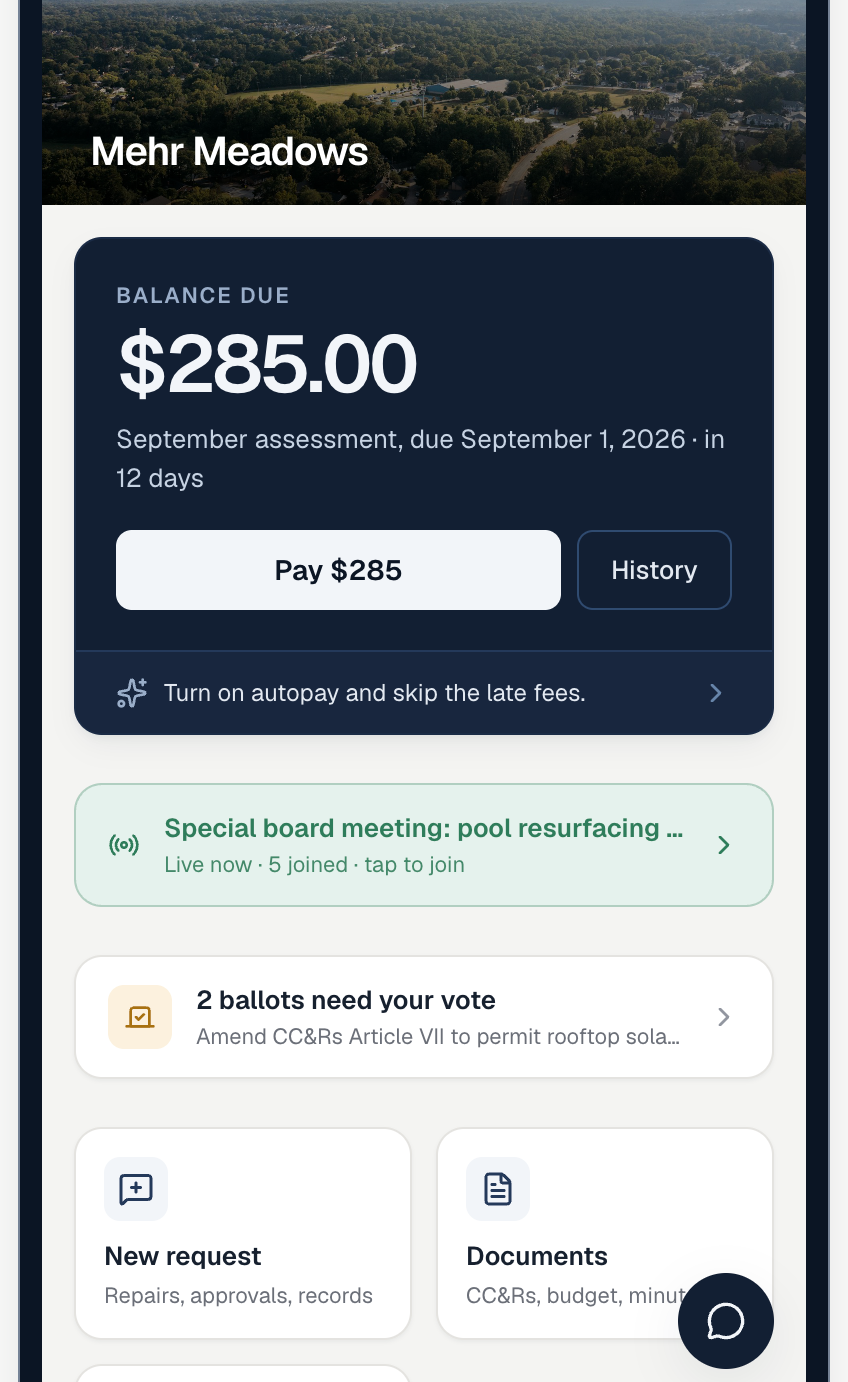
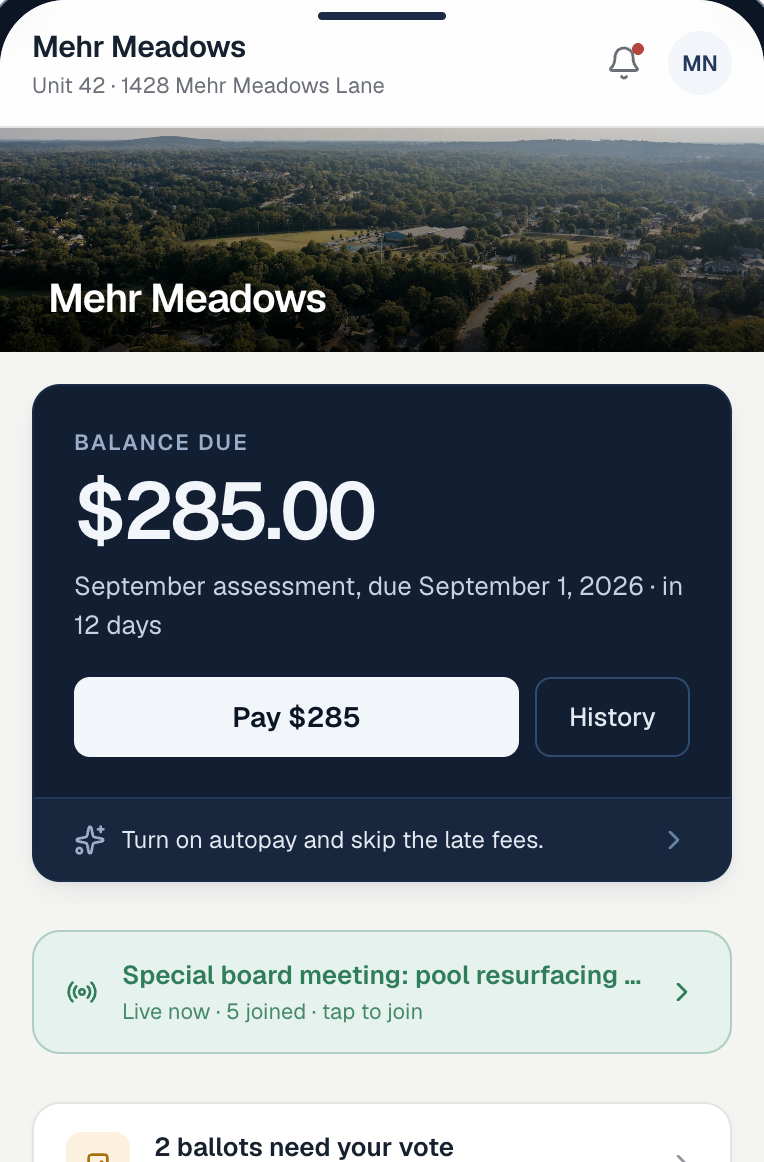
Founders on About, and a CSS phone frame on the home page
Correct headshots: the first photo was Monish, not Arya. Bios rewritten,
playful, and easy to replace: Arya as property manager and carpenter who can
fix a home from the studs up, with Nina getting the credit she is owed, and
Monish as the product manager who used to be an engineer, failed out of
pharmacy, and is being taught to chop wood.

The resident screenshot is recaptured as the screen alone, with no bezel of
its own, and the device is drawn in CSS instead. It stays crisp at any size,
follows the theme, and a new screenshot drops straight in without matching a
baked in border.

diff --git a/src/app/page.tsx b/src/app/page.tsx
@@ -74,8 +74,8 @@ const SHOWCASE = [
       "Association funds open to owners, if the board allows",
     ],
     image: "/marketing/product-resident.png",
-    width: 848,
-    height: 1382,
+    width: 764,
+    height: 1162,
     alt: "The resident app showing a balance due, a live board meeting, and open ballots",
     portrait: true,
   },
@@ -115,6 +115,44 @@ const JOBS = [
   "Answer owners without losing the thread",
   "Track every compliance deadline that applies",
 ];
+
+/**
+ * A phone around the resident screenshot.
+ *
+ * The capture is the screen only, with no bezel of its own, so the device is
+ * drawn here in CSS. That keeps it crisp at any size, lets the frame follow
+ * the theme, and means a new screenshot drops straight in without having to
+ * match a baked in border. Deliberately just a bezel: side buttons read as
+ * artefacts at this size rather than as detail.
+ */
+function PhoneFrame({ src, alt }: { src: string; alt: string }) {
+  return (
+    <div className="relative mx-auto w-[268px] sm:w-[292px]">
+      <div className="relative overflow-hidden rounded-[2.75rem] bg-navy-950 p-[10px] shadow-float ring-1 ring-navy-700/50 dark:ring-navy-600/60">
+        <div className="relative overflow-hidden rounded-[2.15rem] bg-bg">
+          <Image
+            src={src}
+            alt={alt}
+            width={764}
+            height={1162}
+            sizes="(max-width: 640px) 268px, 292px"
+            className="h-auto w-full"
+          />
+          {/* Dynamic island. */}
+          <span
+            className="absolute left-1/2 top-2 h-[22px] w-[86px] -translate-x-1/2 rounded-full bg-navy-950"
+            aria-hidden
+          />
+          {/* Home indicator. */}
+          <span
+            className="absolute bottom-1.5 left-1/2 h-[4px] w-[104px] -translate-x-1/2 rounded-full bg-navy-950/25"
+            aria-hidden
+          />
+        </div>
+      </div>
+    </div>
+  );
+}
 
 export default function MarketingHome() {
   const featured = libraryArticles.slice(0, 3);
@@ -222,22 +260,20 @@ export default function MarketingHome() {
             </Reveal>
 
             <Reveal delay={100} className={index % 2 === 1 ? "lg:order-1" : ""}>
-              <div
-                className={
-                  section.portrait
-                    ? "mx-auto max-w-[280px] overflow-hidden rounded-[1.75rem] border border-border shadow-float"
-                    : "overflow-hidden rounded-card border border-border shadow-float"
-                }
-              >
-                <Image
-                  src={section.image}
-                  alt={section.alt}
-                  width={section.width}
-                  height={section.height}
-                  sizes="(max-width: 1024px) 100vw, 50vw"
-                  className="h-auto w-full"
-                />
-              </div>
+              {section.portrait ? (
+                <PhoneFrame src={section.image} alt={section.alt} />
+              ) : (
+                <div className="overflow-hidden rounded-card border border-border shadow-float">
+                  <Image
+                    src={section.image}
+                    alt={section.alt}
+                    width={section.width}
+                    height={section.height}
+                    sizes="(max-width: 1024px) 100vw, 50vw"
+                    className="h-auto w-full"
+                  />
+                </div>
+              )}
             </Reveal>
           </div>
         </section>

diff --git a/src/app/about/page.tsx b/src/app/about/page.tsx
@@ -20,19 +20,18 @@ const FOUNDERS = [
   {
     name: "Arya Mehr",
     role: "Co-founder",
-    focus: "Community, operations, and anything with a tool in it",
+    focus: "Property management, carpentry, and anything from the studs up",
     photo: "/marketing/founder-arya.jpg",
-    bio: "Arya is a handsome gentleman who is genuinely good with his hands, which in an HOA is worth considerably more than an MBA. He is the one who spots a failing gate latch three weeks before it becomes a work order, owns more clamps than any single human requires, and holds firm opinions about deck stain. Anything involving a contractor, a ladder, or a difficult conversation at a board meeting is his.",
+    bio: "Arya is a property manager, a carpenter, and a handsome gentleman who is genuinely good with his hands. He can fix anything on a home from the studs up, which in this business is worth considerably more than an MBA. His wife Nina makes him a better man, a fact he will volunteer before you have finished asking. Anything involving a tool, a contractor, or a wall that is not where it should be is his.",
   },
   {
     name: "Monish Naidu",
     role: "Co-founder",
     focus: "Product and engineering",
-    photo: null,
-    bio: "Monish writes the software and refuses to let a number appear on screen that he cannot trace back to a transaction. He is the reason the reserve projection names the exact year you run out instead of offering a cheerful percentage and wishing you luck. Owns zero clamps. Reconciles ledgers recreationally, which everyone agrees is a little concerning.",
+    photo: "/marketing/founder-monish.jpg",
+    bio: "Monish is a product manager who used to be a software engineer, which means he writes the spec and then quietly writes the code as well. He refuses to let a number appear on screen that he cannot trace back to a transaction. He also failed out of becoming a pharmacist, a career change everyone involved now regards as a public service. Under Arya's patient mentorship he is learning to chop wood, and is measurably less dangerous with an axe than he was last spring.",
   },
 ];
-
 const BELIEFS = [
   {
     icon: ShieldCheck,
